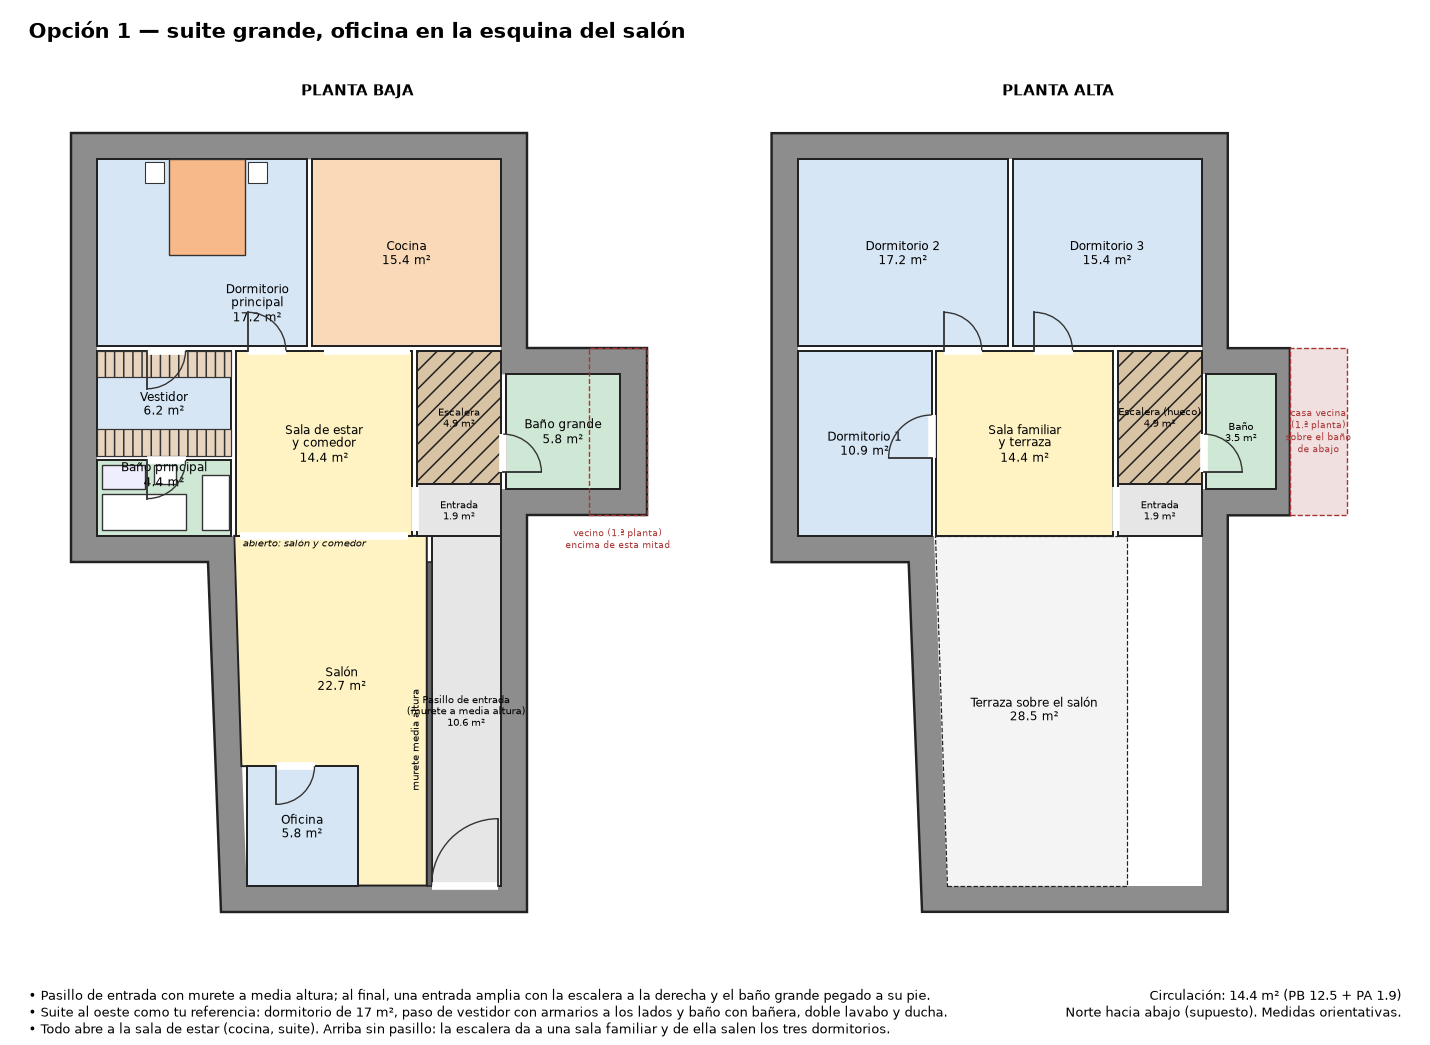
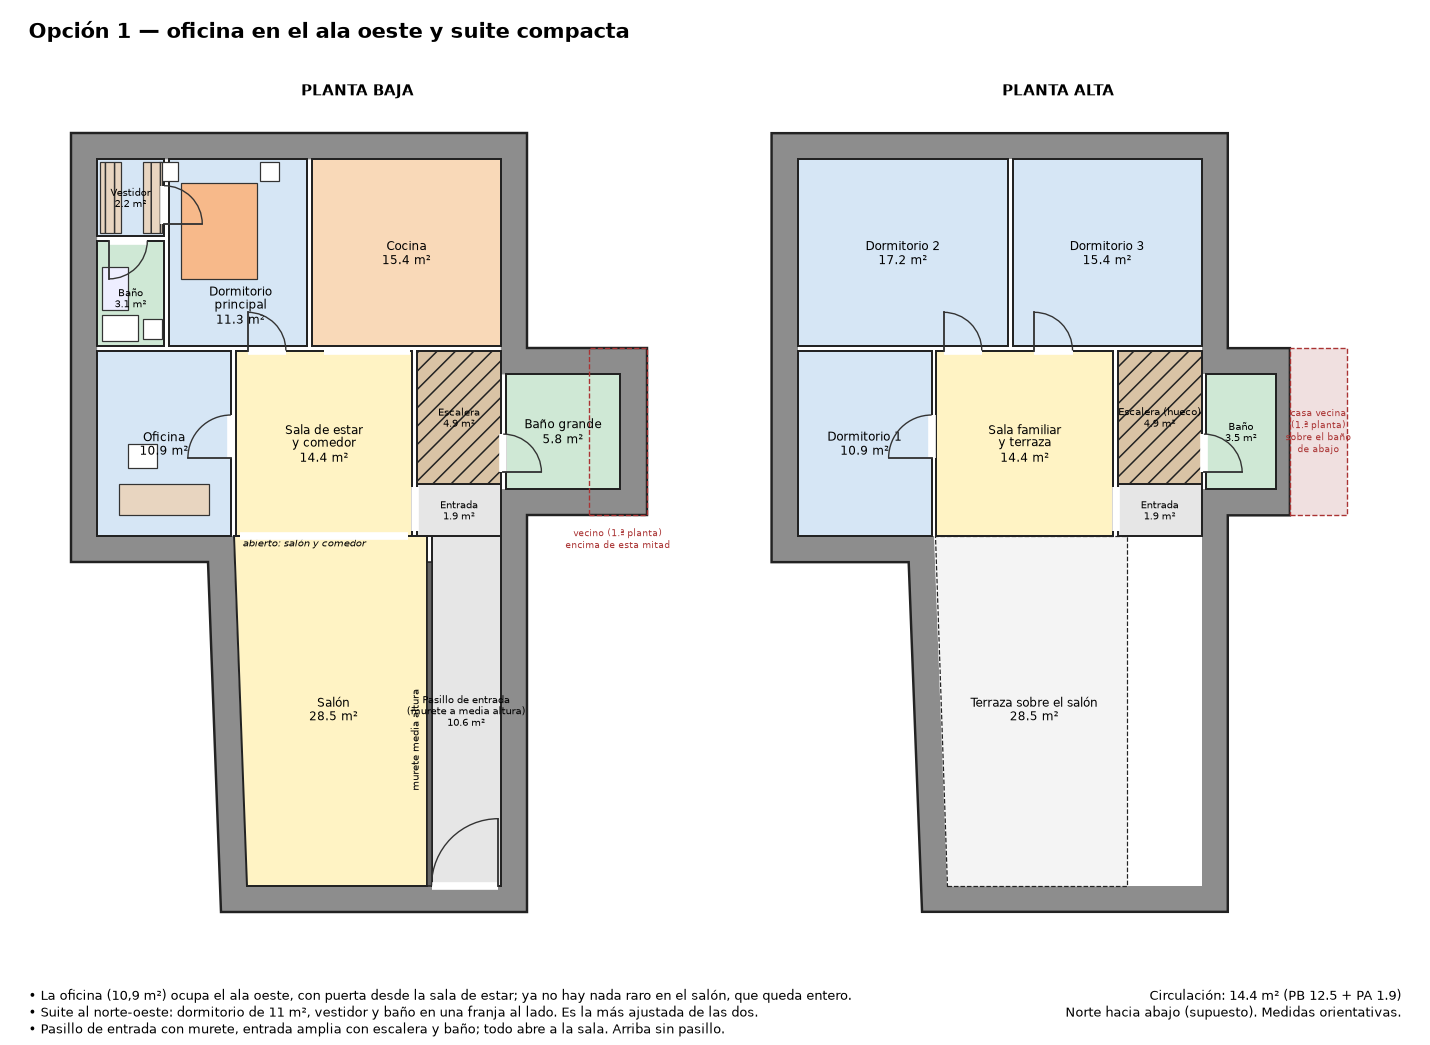
Mover la oficina al ala oeste o al norte y rehacer la suite en dos variantes
Claude-Session: https://claude.ai/code/session_01GrFzVPJDRJqirwnmNdffa5

diff --git a/casa3d/opciones.py b/casa3d/opciones.py
@@ -20,35 +20,58 @@ FRONT = (7.55, 0.55, "H", 1.40, 1, 1)          # puerta de entrada de 1,40 pegad
 PTS_PA = [(3.15, 0), (9.55, 0), (9.55, 8.30), (10.85, 8.30), (10.85, 11.80), (9.55, 11.80), (9.55, 16.30), (0, 16.30), (0, 7.32), (2.87, 7.32)]
 from shapely.geometry import box as sbox
 OUT_PA = OUT.intersection(sbox(-1, -1, 10.85, 20)); INN_PA = INN.intersection(sbox(-1, -1, 10.55, 20))   # en planta alta el baño solo entra la mitad hacia el vecino
-SALON_L = [(6.00, 0.55), (7.45, 0.55), (7.45, 7.87), (3.42, 7.87), (3.57, 3.05), (6.00, 3.05)]           # salón con esquina de oficina
-BASE_PB = [("Pasillo de entrada\n(murete a media altura)", "circ", R(7.55, 0.55, 9.00, 7.87)), ("Entrada", "circ", R(7.25, 7.87, 9.00, 8.95)),
-           ("Escalera", "esc", R(7.25, 8.95, 9.00, 11.75)), ("Baño grande", "humedo", R(9.10, 8.85, 11.50, 11.25)),
-           ("Sala de estar\ny comedor", "sala", R(3.45, 7.87, 7.15, 11.75)), ("Cocina", "cocina", R(5.05, 11.85, 9.00, 15.75)),
-           ("Dormitorio\nprincipal", "priv", R(0.55, 11.85, 4.95, 15.75)), ("Vestidor", "priv", R(0.55, 9.55, 3.35, 11.75)),
-           ("Baño principal", "humedo", R(0.55, 7.87, 3.35, 9.45))]
-DOORS_PB = [FRONT, (3.70, 11.75, "H", 0.80, 0, 1), (1.60, 11.75, "H", 0.80, 0, -1), (1.60, 9.45, "H", 0.80, 0, -1),
-            (5.30, 11.75, "H", 1.80, 0, 0), (9.05, 9.20, "V", 0.80, 0, 1)]
-AB_PB = [(3.55, 7.87, 7.05, 7.87), (7.20, 7.97, 7.20, 8.90)]
+COMUN_PB = [("Pasillo de entrada\n(murete a media altura)", "circ", R(7.55, 0.55, 9.00, 7.87)), ("Entrada", "circ", R(7.25, 7.87, 9.00, 8.95)),
+            ("Escalera", "esc", R(7.25, 8.95, 9.00, 11.75)), ("Baño grande", "humedo", R(9.10, 8.85, 11.50, 11.25)),
+            ("Cocina", "cocina", R(5.05, 11.85, 9.00, 15.75)), ("Salón", "sala", SALON)]
+COMUN_DOORS = [FRONT, (9.05, 9.20, "V", 0.80, 0, 1), (5.30, 11.75, "H", 1.80, 0, 0)]
 BASE_PA = [("Terraza sobre el salón", "terraza", SALON), ("Entrada", "circ", R(7.25, 7.87, 9.00, 8.95)), ("Escalera (hueco)", "esc", R(7.25, 8.95, 9.00, 11.75)),
            ("Baño", "humedo", R(9.10, 8.85, 10.55, 11.25)), ("Sala familiar\ny terraza", "sala", R(3.45, 7.87, 7.15, 11.75)),
-           ("Dormitorio 1", "priv", R(0.55, 7.87, 3.35, 11.75)), ("Dormitorio 2", "priv", R(0.55, 11.85, 4.95, 15.75))]
+           ("Dormitorio 1", "priv", R(0.55, 7.87, 3.35, 11.75)), ("Dormitorio 2", "priv", R(0.55, 11.85, 4.95, 15.75)), ("Dormitorio 3", "priv", R(5.05, 11.85, 9.00, 15.75))]
 DOORS_PA = [(3.35, 9.50, "V", 0.90, 0, -1), (3.60, 11.75, "H", 0.80, 0, 1), (5.50, 11.75, "H", 0.80, 0, 1), (9.05, 9.20, "V", 0.80, 0, 1)]
+
+
+def F(ax, kind, *a, **k):
+    z = 5
+    if kind == "rect": ax.add_patch(Rectangle((a[0], a[1]), a[2], a[3], fc=k.get("fc", "#fff"), ec="#333", lw=.8, hatch=k.get("hatch"), zorder=z))
+
+
+def muebles_1(ax):       # suite compacta al norte-oeste, oficina en el ala oeste
+    F(ax, "rect", 2.30, 13.25, 1.6, 2.0, fc="#f7b98a")                      # cama, cabecero al fondo
+    for x in (1.85, 3.95): F(ax, "rect", x, 15.3, .4, .4)
+    F(ax, "rect", 0.60, 14.20, 0.45, 1.5, fc="#e8d5c0", hatch="||"); F(ax, "rect", 1.50, 14.20, 0.40, 1.5, fc="#e8d5c0", hatch="||")   # armarios
+    F(ax, "rect", 0.65, 11.95, 0.75, 0.55); F(ax, "rect", 1.50, 12.00, 0.40, 0.40); F(ax, "rect", 0.65, 12.60, 0.55, 0.9, fc="#eef")     # inodoro, lavabo, ducha
+    F(ax, "rect", 1.00, 8.30, 1.90, 0.65, fc="#e8d5c0"); F(ax, "rect", 1.20, 9.3, 0.6, 0.5)                                               # mesa de trabajo y silla
+
+
+def muebles_2(ax):       # suite en línea (dormitorio - paso de vestidor - baño), oficina al norte
+    F(ax, "rect", 0.55, 8.70, 2.0, 1.6, fc="#f7b98a")                       # cama con cabecero contra el muro oeste
+    F(ax, "rect", 0.60, 8.20, .45, .45); F(ax, "rect", 0.60, 10.35, .45, .45)
+    F(ax, "rect", 0.55, 11.95, 0.55, 1.35, fc="#e8d5c0", hatch="||"); F(ax, "rect", 2.50, 11.95, 0.55, 1.35, fc="#e8d5c0", hatch="||")  # armarios a ambos lados
+    F(ax, "rect", 0.65, 13.60, 0.75, 1.7); F(ax, "rect", 2.55, 13.60, 0.45, 1.2); F(ax, "rect", 0.65, 15.35, 0.8, 0.30, fc="#eef"); F(ax, "rect", 1.75, 15.30, 0.45, 0.40)
+    F(ax, "rect", 3.30, 14.9, 1.4, 0.65, fc="#e8d5c0"); F(ax, "rect", 3.75, 14.2, 0.55, 0.5)                                            # mesa y silla de la oficina
+
 
 OPCIONES = {
  "1": dict(
-  titulo="Opción 1 — suite grande, oficina en la esquina del salón",
-  ideas=["Pasillo de entrada con murete a media altura; al final, una entrada amplia con la escalera a la derecha y el baño grande pegado a su pie.",
-         "Suite al oeste como tu referencia: dormitorio de 17 m², paso de vestidor con armarios a los lados y baño con bañera, doble lavabo y ducha.",
-         "Todo abre a la sala de estar (cocina, suite). Arriba sin pasillo: la escalera da a una sala familiar y de ella salen los tres dormitorios."],
-  PB=[("Salón", "sala", SALON_L), ("Oficina", "priv", R(3.68, 0.55, 6.00, 3.05))] + BASE_PB, doorsPB=DOORS_PB + [(4.30, 3.05, "H", 0.80, 0, -1)], abPB=AB_PB,
-  PA=BASE_PA + [("Dormitorio 3", "priv", R(5.05, 11.85, 9.00, 15.75))], doorsPA=DOORS_PA, abPA=[(7.20, 7.97, 7.20, 8.90)]),
+  titulo="Opción 1 — oficina en el ala oeste y suite compacta",
+  ideas=["La oficina (10,9 m²) ocupa el ala oeste, con puerta desde la sala de estar; ya no hay nada raro en el salón, que queda entero.",
+         "Suite al norte-oeste: dormitorio de 11 m², vestidor y baño en una franja al lado. Es la más ajustada de las dos.",
+         "Pasillo de entrada con murete, entrada amplia con escalera y baño; todo abre a la sala. Arriba sin pasillo."],
+  PB=COMUN_PB + [("Sala de estar\ny comedor", "sala", R(3.45, 7.87, 7.15, 11.75)), ("Oficina", "priv", R(0.55, 7.87, 3.35, 11.75)),
+                 ("Dormitorio\nprincipal", "priv", R(2.05, 11.85, 4.95, 15.75), (3.55, 12.7)), ("Vestidor", "priv", R(0.55, 14.15, 1.95, 15.75), (1.25, 14.95)),
+                 ("Baño", "humedo", R(0.55, 11.85, 1.95, 14.05), (1.25, 12.85))],
+  doorsPB=COMUN_DOORS + [(3.35, 9.50, "V", 0.90, 0, -1), (3.70, 11.75, "H", 0.80, 0, 1), (1.95, 14.40, "V", 0.80, 0, 1), (0.80, 14.05, "H", 0.80, 0, -1)],
+  abPB=[(3.55, 7.87, 7.05, 7.87), (7.20, 7.97, 7.20, 8.90)], muebles=muebles_1, PA=BASE_PA, doorsPA=DOORS_PA, abPA=[(7.20, 7.97, 7.20, 8.90)]),
  "2": dict(
-  titulo="Opción 2 — salón completo, oficina arriba",
-  ideas=["Igual que la 1, pero el salón queda entero (unos 28 m²) y sin esquina de oficina.",
-         "La oficina pasa a la planta alta: el Dormitorio 3 (15 m²) puede ser despacho o dormitorio según lo necesites.",
-         "En planta baja queda un rincón de trabajo en la sala de estar si prefieres tenerlo a mano."],
-  PB=[("Salón", "sala", SALON)] + BASE_PB, doorsPB=DOORS_PB, abPB=AB_PB,
-  PA=BASE_PA + [("Dormitorio 3\n(o despacho)", "priv", R(5.05, 11.85, 9.00, 15.75))], doorsPA=DOORS_PA, abPA=[(7.20, 7.97, 7.20, 8.90)]),
+  titulo="Opción 2 — suite en línea como tu referencia y oficina al norte",
+  ideas=["Suite en línea: dormitorio de 13 m² → paso de vestidor con armarios a ambos lados → baño de 5,8 m² con bañera y doble lavabo.",
+         "La oficina (7 m²) queda junto a la cocina, con puerta desde la sala de estar.",
+         "La sala de estar se estrecha un poco (12 m²) pero sigue abierta al salón entero. Arriba igual que la opción 1."],
+  PB=COMUN_PB + [("Sala de estar\ny comedor", "sala", R(4.05, 7.87, 7.15, 11.75)), ("Dormitorio\nprincipal", "priv", R(0.55, 7.87, 3.95, 11.75), (2.65, 10.45)),
+                 ("Vestidor", "priv", R(0.55, 11.85, 3.05, 13.35), (1.8, 12.6)), ("Baño principal", "humedo", R(0.55, 13.45, 3.05, 15.75), (1.9, 14.4)),
+                 ("Oficina", "priv", R(3.15, 11.85, 4.95, 15.75))],
+  doorsPB=COMUN_DOORS + [(3.95, 9.50, "V", 0.90, 0, -1), (1.50, 11.75, "H", 0.80, 0, 1), (1.50, 13.35, "H", 0.80, 0, 1), (4.15, 11.75, "H", 0.80, 0, 1)],
+  abPB=[(4.15, 7.87, 7.05, 7.87), (7.20, 7.97, 7.20, 8.90)], muebles=muebles_2, PA=BASE_PA, doorsPA=DOORS_PA, abPA=[(7.20, 7.97, 7.20, 8.90)]),
 }
 
 
@@ -82,6 +105,9 @@ def mueble_suite(ax):
 LABEL_POS = {"Dormitorio\nprincipal": (3.9, 12.75), "Vestidor": (1.95, 10.65), "Baño principal": (1.95, 9.15)}
 
 
+MUEBLES = None
+
+
 def dibujar(ax, rooms, doors, planta, abiertos=()):
     out, inn = (OUT, INN) if planta == "PB" else (OUT_PA, INN_PA)
     ax.add_patch(MPoly(list(out.exterior.coords), closed=True, fc="#8d8d8d", ec="#222", lw=1.6, zorder=1))
@@ -91,18 +117,19 @@ def dibujar(ax, rooms, doors, planta, abiertos=()):
     if planta == "PA":
         ax.add_patch(Rectangle((10.85, 8.30), 1.20, 3.50, fc="#f0e0e0", ec="#a33", ls="--", lw=.9, zorder=1)); ax.text(11.45, 10.05, "casa vecina\n(1.ª planta)\nsobre el baño\nde abajo", ha="center", va="center", fontsize=6, color="#a33")
     circ = 0; total = 0
-    for nombre, tipo, poly in rooms:
+    for room in rooms:
+        nombre, tipo, poly = room[:3]; lpos = room[3] if len(room) > 3 else None
         a = area(poly)
         ax.add_patch(MPoly(poly, closed=True, fc=COL[tipo], ec="#222", lw=1.3 if tipo != "terraza" else .8, ls="-" if tipo != "terraza" else "--", zorder=3, hatch="//" if tipo == "esc" else None))
-        cx_, cy_ = LABEL_POS.get(nombre, Polygon(poly).centroid.coords[0]) if planta == "PB" else Polygon(poly).centroid.coords[0]
+        cx_, cy_ = lpos or Polygon(poly).centroid.coords[0]
         pequeno = Polygon(poly).bounds[2] - Polygon(poly).bounds[0] < 2.2
         ax.text(cx_, cy_, f"{nombre}\n{a:.1f} m²", ha="center", va="center", fontsize=6.6 if pequeno else 8, zorder=6, linespacing=1.15)
         if tipo == "circ": circ += a
         if tipo not in ("terraza", "esc"): total += a
     if planta == "PB":
-        mueble_suite(ax)
         ax.add_patch(Rectangle((7.45, 0.55), 0.10, 6.77, fc="#666", ec="#222", zorder=4)); ax.text(7.33, 3.6, "murete media altura", rotation=90, ha="right", va="center", fontsize=6.5)
         ax.text(3.6, 7.65, "abierto: salón y comedor", fontsize=6.5, style="italic", zorder=6)
+    if planta == "PB" and MUEBLES: MUEBLES(ax)
     for (x0, y0, x1, y1) in abiertos: ax.plot([x0, x1], [y0, y1], color="white", lw=5, solid_capstyle="butt", zorder=7)
     for d in doors: door(ax, d)
     ax.set_xlim(-0.6, 12.6); ax.set_ylim(-0.6, 16.9); ax.set_aspect("equal"); ax.axis("off")
@@ -112,6 +139,7 @@ def dibujar(ax, rooms, doors, planta, abiertos=()):
 
 if __name__ == "__main__":
     for k, o in OPCIONES.items():
+        MUEBLES = o["muebles"]
         fig = plt.figure(figsize=(13, 9.5)); fig.suptitle(o["titulo"], fontsize=14, weight="bold", x=0.02, ha="left")
         ax1 = fig.add_axes([0.02, 0.10, 0.46, 0.80]); ax2 = fig.add_axes([0.51, 0.10, 0.46, 0.80])
         c1, t1 = dibujar(ax1, o["PB"], o["doorsPB"], "PB", o["abPB"]); c2, t2 = dibujar(ax2, o["PA"], o["doorsPA"], "PA", o["abPA"])
